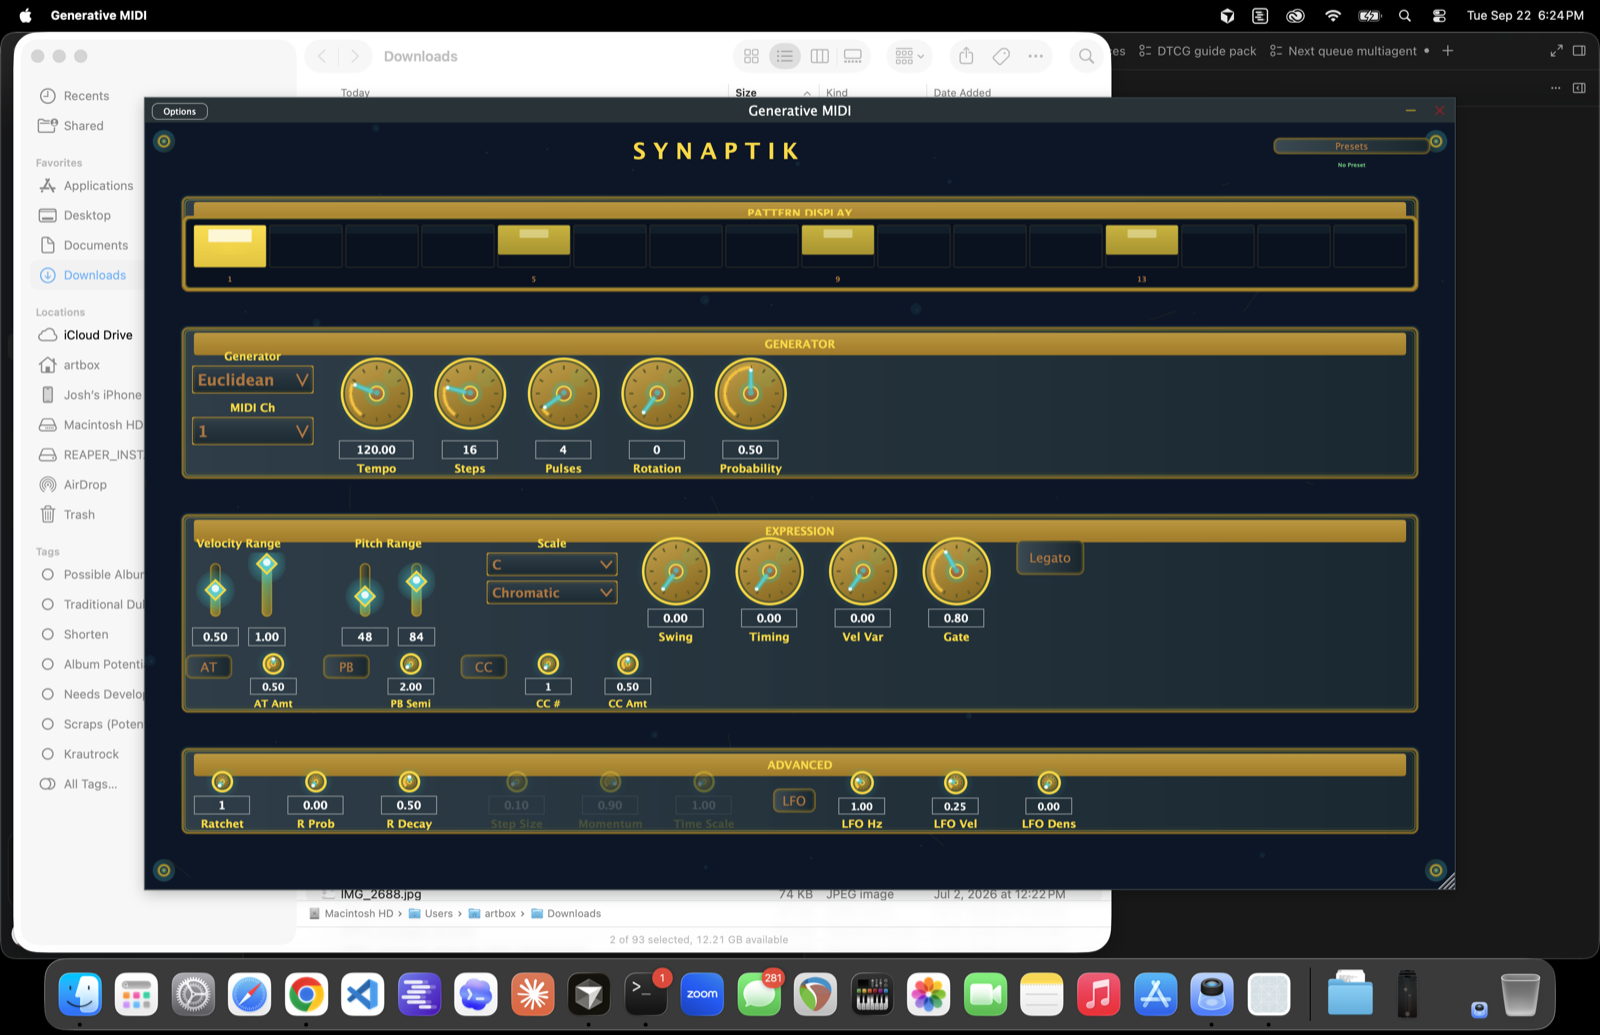
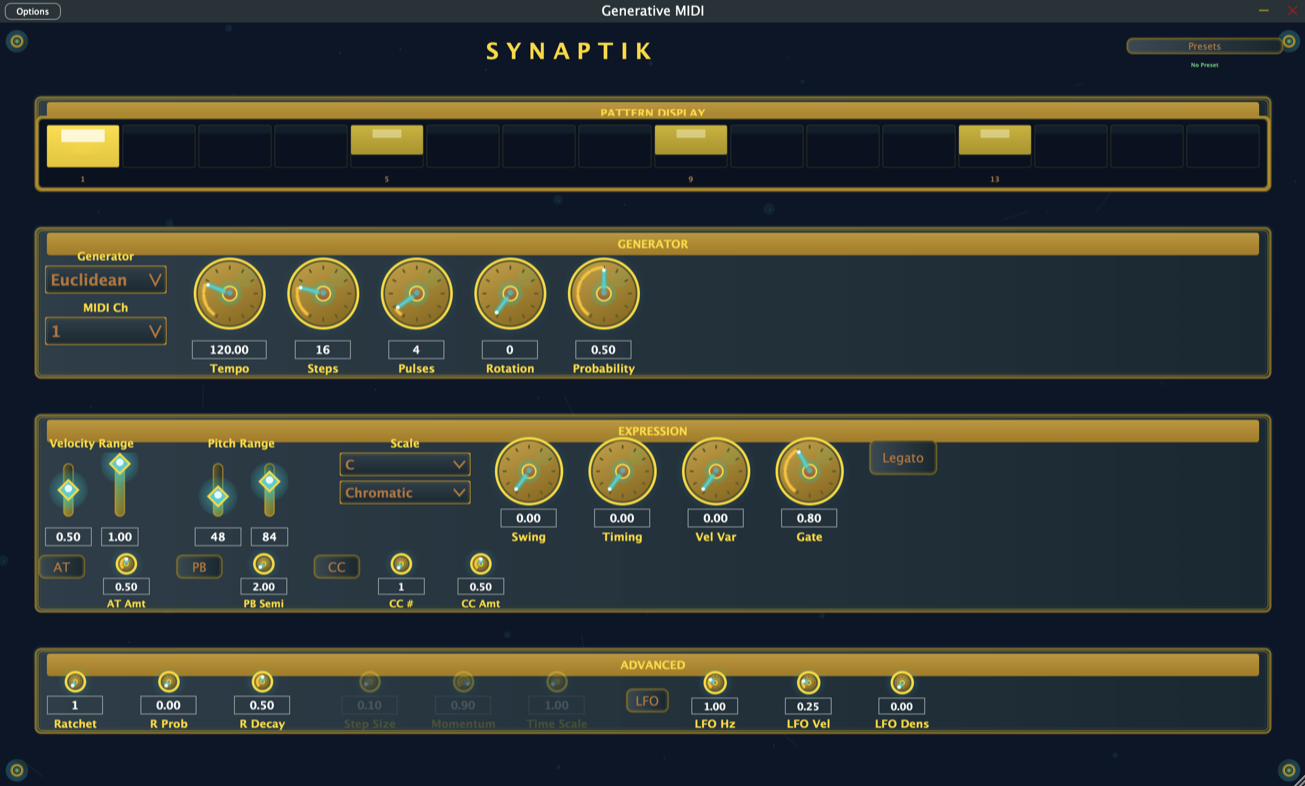
docs(qa): crop desktop screenshots to the app window; drop four unusable captures (#20)
13 screenshots under docs/qa/logs were full-desktop captures (dock, menu bar,
other apps' sidebars and chats). Crop each to the plugin (or REAPER) window in
place so filenames and links keep working.

Remove four captures that contain no plugin UI once cropped (a Terminal, two
Cursor chats, and one chat/browser view) and fix every doc line that linked
them; the .txt logs remain as the evidence. Earlier versions stay in git
history.

diff --git a/docs/qa/QA_FINDINGS_v0.8.0.md b/docs/qa/QA_FINDINGS_v0.8.0.md
@@ -39,7 +39,7 @@ Rebuild log (earlier): [`logs/rebuild_debug_standalone.txt`](logs/rebuild_debug_
 - **Generator cycling (partial)** — Keyboard/cliclick cycling reached Brownian and other gens ([`logs/standalone_brownian.png`](logs/standalone_brownian.png), [`logs/standalone_ui_exercise_after_rebuild.txt`](logs/standalone_ui_exercise_after_rebuild.txt)). LFO button clickable ([`logs/standalone_lfo_toggled.png`](logs/standalone_lfo_toggled.png)). Density/Probability knobs visible in UI.
 - **Transport gate (code)** — `processBlock` advances only when playhead reports playing ([`PluginProcessor.cpp`](../../Source/PluginProcessor.cpp)); Standalone without playhead free-runs.
 - **REAPER present** — App launches; AX OK ([`logs/reaper_launched.png`](logs/reaper_launched.png), [`logs/reaper_phase_c.txt`](logs/reaper_phase_c.txt)).
-- **REAPER transport gate via MCP (Phase C)** — **PASS**: TwelveTake MCP `create_project` → insert track → `Generative MIDI` + `ReaSynth` → play ~3.5s → stop (`get_play_state` = 0). FX resolved as `VST3: Generative MIDI (OpenSource)` + `VSTi: ReaSynth (Cockos)`. Evidence: [`logs/reaper_transport_gate_mcp.txt`](logs/reaper_transport_gate_mcp.txt), [`logs/reaper_transport_gate_mcp.png`](logs/reaper_transport_gate_mcp.png); setup: [`reaper/MCP_SETUP.md`](reaper/MCP_SETUP.md).
+- **REAPER transport gate via MCP (Phase C)** — **PASS**: TwelveTake MCP `create_project` → insert track → `Generative MIDI` + `ReaSynth` → play ~3.5s → stop (`get_play_state` = 0). FX resolved as `VST3: Generative MIDI (OpenSource)` + `VSTi: ReaSynth (Cockos)`. Evidence: [`logs/reaper_transport_gate_mcp.txt`](logs/reaper_transport_gate_mcp.txt); setup: [`reaper/MCP_SETUP.md`](reaper/MCP_SETUP.md).
 - **AX titles on key controls** — **PASS** — `Component::setTitle` on Generator Type, Presets, Probability, LFO Enable/Rate/Velocity/Density, Advanced ratchet/stochastic knobs, expression toggles, Polyrhythm layer editor (+ Add/Remove Layer, per-layer Division/Length/Pitch/Velocity/Enable), Preset Browser actions. System Events probe: [`logs/ax_names_probe.txt`](logs/ax_names_probe.txt) (all key names **FOUND** with `gen=Polyrhythm`).
 - **Polyrhythm layer editor (Standalone)** — **PASS** — Selected Polyrhythm via named Generator Type + OCR/cliclick on menu row; UI shows **POLYRHYTHM LAYERS** with `+ Add Layer` / `- Remove Layer` and Layer 1 row (pattern + Div/Len/Pitch/Vel). Evidence: [`logs/standalone_polyrhythm_layers.png`](logs/standalone_polyrhythm_layers.png), [`logs/standalone_polyrhythm_layers_confirm.png`](logs/standalone_polyrhythm_layers_confirm.png), [`logs/polyrhythm_layer_ui_ax.txt`](logs/polyrhythm_layer_ui_ax.txt), [`logs/polyrhythm_ui_confirm_meta.txt`](logs/polyrhythm_ui_confirm_meta.txt).
 
@@ -61,7 +61,7 @@ No auval/pluginval/ctest failures observed on this campaign.
 
 ### P0
 1. **Human confirm Polyrhythm layer editor** — **DONE (agent)** — Standalone Polyrhythm selection + layer UI screenshot + AX layer titles. Optional: human ear-check that notes emit in Standalone/REAPER.
-2. **Optional ear-check** — **PASS with residual human glance** — Re-ran Generative MIDI + ReaSynth via TwelveTake MCP: play ~3.5s → stop (`get_play_state` 1→0). Evidence: [`logs/reaper_earcheck_mcp.txt`](logs/reaper_earcheck_mcp.txt), [`logs/reaper_earcheck_playing.png`](logs/reaper_earcheck_playing.png), [`logs/reaper_earcheck_stopped.png`](logs/reaper_earcheck_stopped.png). No MIDI-monitor/mic proof of silence-on-stop; CI HostSmokeTests remain the objective gate.
+2. **Optional ear-check** — **PASS with residual human glance** — Re-ran Generative MIDI + ReaSynth via TwelveTake MCP: play ~3.5s → stop (`get_play_state` 1→0). Evidence: [`logs/reaper_earcheck_mcp.txt`](logs/reaper_earcheck_mcp.txt). No MIDI-monitor/mic proof of silence-on-stop; CI HostSmokeTests remain the objective gate.
 
 ### P1
 3. **Headless MIDI emit harness** — **DONE** — `Tests/HostSmokeTests.cpp` + `GenerativeMIDIHostSmokeTests` (links `GenerativeMIDI` shared code); fake `AudioPlayHead`; playing → note-ons > 0; stopped → no new note-ons; Standalone free-run contrast documented in source comments.

diff --git a/docs/qa/logs/SMOKE_CHECKLIST_RESULTS.md b/docs/qa/logs/SMOKE_CHECKLIST_RESULTS.md
@@ -12,7 +12,7 @@
 | 1. MIDI emit per generator | **PARTIAL** | UI cycling reached multiple gens (e.g. Brownian); no MIDI monitor — audibility **manual-required**. |
 | 2. Factory presets | **PASS (UI open)** | Preset Manager shows 11 factories incl. Polyrhythm Layers ([`standalone_presets_menu.png`](standalone_presets_menu.png)). Load-each + audible change: **manual-required**. |
 | 3. Standalone free-run | **PASS (process + code)** | Standalone runs; no playhead → always-run clock. |
-| 3. DAW Play/Stop gate | **PASS (MCP Phase C)** | TwelveTake MCP: new project, `Generative MIDI` + `ReaSynth`, play ~3.5s, stop ([`reaper_transport_gate_mcp.txt`](reaper_transport_gate_mcp.txt), [`reaper_transport_gate_mcp.png`](reaper_transport_gate_mcp.png)). Ear-check of MIDI silence on stop: optional. |
+| 3. DAW Play/Stop gate | **PASS (MCP Phase C)** | TwelveTake MCP: new project, `Generative MIDI` + `ReaSynth`, play ~3.5s, stop ([`reaper_transport_gate_mcp.txt`](reaper_transport_gate_mcp.txt)). Ear-check of MIDI silence on stop: optional. |
 | 4. Expression AT/PB/CC | **PARTIAL** | Controls visible/togglable in UI; MIDI emit **manual-required**. |
 | 5. MIDI channel 1–16 | **PARTIAL** | Channel combo visible (value “1”); routing **manual-required**. |
 | 6. LFO Vel / Dens | **PARTIAL** | LFO button clicked ([`standalone_lfo_toggled.png`](standalone_lfo_toggled.png)); knobs visible; audible check **manual-required**. |

diff --git a/docs/qa/reaper/README.md b/docs/qa/reaper/README.md
@@ -36,7 +36,7 @@ Or load [`create_transport_gate_session.lua`](create_transport_gate_session.lua)
 
 - **TwelveTake MCP installed** — `uvx twelvetake-reaper-mcp`; Cursor `~/.cursor/mcp.json` server `reaper` → namespace `user-reaper`.
 - Bridge auto-started via `Scripts/__startup.lua` → `reaper_mcp_bridge.lua`.
-- Phase C MCP session **PASS**: new project, insert Generative MIDI VST3 + ReaSynth, play ~3.5s, stop (`get_play_state` = 0). Evidence: [`../logs/reaper_transport_gate_mcp.txt`](../logs/reaper_transport_gate_mcp.txt), [`../logs/reaper_transport_gate_mcp.png`](../logs/reaper_transport_gate_mcp.png).
+- Phase C MCP session **PASS**: new project, insert Generative MIDI VST3 + ReaSynth, play ~3.5s, stop (`get_play_state` = 0). Evidence: [`../logs/reaper_transport_gate_mcp.txt`](../logs/reaper_transport_gate_mcp.txt).
 - Working FX names recorded in [`FX_NAMES.md`](FX_NAMES.md).
 
 ## How to record evidence
